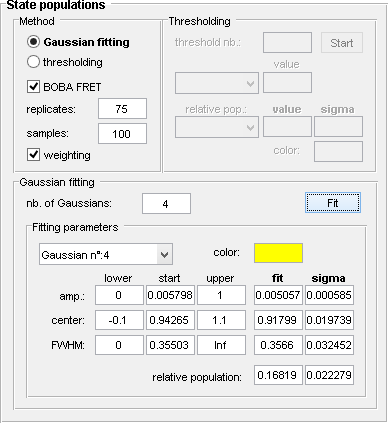
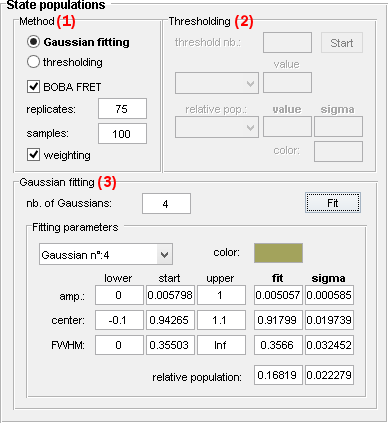
Import HA's panel GUI images

diff --git a/docs/histogram-analysis/panels/panel-state-populations.md b/docs/histogram-analysis/panels/panel-state-populations.md
@@ -22,22 +22,25 @@ nav_order: 4
 
 ## Method settings
 
-Population calculation settings.
+Defines the method to calculate state populations.
 
-* <u>Population calculation method</u>
-
-* <u>Data bootstrapping</u>
+<img src="../../assets/images/gui/HA-panel-state-populations-method.png" style="max-width: 156px;"/>
 
 
 ---
 
 ## Thresholding
 
+Defines settings to calculate state populations with the Thresholding method.
+
+<img src="../../assets/images/gui/HA-panel-state-populations-thresholding.png" style="max-width: 215px;"/>
+
 States are separated by fixed thresholds, histogram counts are summed up between thresholds and resulting populations are normalized.
 
-* Set `J-1` thresholds in edit fieldd **(1)** for a model containing *J* of states.
-* Select threshold with dropdown menu **(2)** and set the threshold value in edit field **(3)**.
-* Start calculations with button ![Start](../../assets/images/but-HA-start.png)
+* Set `J-1` thresholds in edit fieldd **(a)** for a model containing *J* of states.
+* Select threshold with dropdown menu **(b)** and set the threshold value in edit field **(c)**.
+* Start calculations with button 
+![Start](../../assets/images/gui/HA-but-start.png)
 * <u>Start thresholding</u>
 
 * <u>Calculation results</u>
@@ -46,6 +49,10 @@ States are separated by fixed thresholds, histogram counts are summed up between
 ---
 
 ## Gaussian fitting
+
+Defines settings to calculate state populations with the Gaussian fitting method.
+
+<img src="../../assets/images/gui/HA-panel-state-populations-gaussian-fitting.png" style="max-width: 365px;"/>
 
 Histogram is fitted with a mixture of Gaussians and 
 

diff --git a/docs/histogram-analysis/panels/area-visualization.md b/docs/histogram-analysis/panels/area-visualization.md
@@ -21,12 +21,27 @@ nav_order: 5
 ## Top axes
 
 ### Default
+{: .no_toc }
+
+<img src="../../assets/images/gui/HA-area-visualization-top-default.png" style="max-width:482px;">
+
 
 ### Inferred state configuration
+{: .no_toc }
+
+<img src="../../assets/images/gui/HA-area-visualization-top-gaussian.png" style="max-width:482px;">
+
 
 ### After Gaussian fitting
+{: .no_toc }
+
+<img src="../../assets/images/gui/HA-area-visualization-top-gaussian-boba.png" style="max-width:482px;">
+
 
 ### After thresholding
+{: .no_toc }
+
+<img src="../../assets/images/gui/HA-area-visualization-top-threshold.png" style="max-width:482px;">
 
 
 ---
@@ -34,8 +49,20 @@ nav_order: 5
 ## Bottom axes
 
 ### Default
+{: .no_toc }
+
+<img src="../../assets/images/gui/HA-area-visualization-bottom-default.png" style="max-width:482px;">
+
 
 ### After Gaussian fitting
+{: .no_toc }
 
+<img src="../../assets/images/gui/HA-area-visualization-bottom-gaussian-boba.png" style="max-width:482px;">
+
+
+### After thresholding
+{: .no_toc }
+
+<img src="../../assets/images/gui/HA-area-visualization-bottom-threshold.png" style="max-width:482px;">
 
 

diff --git a/docs/histogram-analysis/panels/panel-state-configuration.md b/docs/histogram-analysis/panels/panel-state-configuration.md
@@ -9,7 +9,7 @@ nav_order: 3
 # State configuration
 {: .no_toc }
 
-<a href="../../assets/images/gui/HA-panel-state-configuration.png"><img src="../../assets/images/gui/HA-panel-state-configuration.png" style="max-width: 200px;"/></a>
+<a href="../../assets/images/gui/HA-panel-state-configuration.png"><img src="../../assets/images/gui/HA-panel-state-configuration.png" style="max-width: 166px;"/></a>
 
 ## Panel components
 {: .no_toc .text-delta }
@@ -26,6 +26,10 @@ nav_order: 3
 ---
 
 ## Model penalty
+
+Use this interface to set the model overfitting penalty
+
+<img src="../../assets/images/gui/HA-panel-state-configuration-penalty.png" style="max-width: 160px;"/>
 
 The 
 [*BIC*](){: .math_var } is similar to a penalized likelihood and is expressed such as:
@@ -45,4 +49,8 @@ Here, the most sufficient model has the lowest
 
 ## Inferred models
 
+Use this interface to visualize the different inferred models
 
+<img src="../../assets/images/gui/HA-panel-state-configuration-models.png" style="max-width: 150px;"/>
+
+<img src="../../assets/images/gui/HA-panel-state-configuration-bic.png" style="max-width: 147px;"/>

diff --git a/docs/histogram-analysis/panels/panel-histogram-and-plot.md b/docs/histogram-analysis/panels/panel-histogram-and-plot.md
@@ -9,7 +9,7 @@ nav_order: 2
 # Histogram and plot
 {: .no_toc }
 
-<a href="../../assets/images/gui/HA-panel-plot.png"><img src="../../assets/images/gui/HA-panel-plot.png" style="max-width: 166px;"/></a>
+<a href="../../assets/images/gui/HA-panel-plot.png"><img src="../../assets/images/gui/HA-panel-plot.png" style="max-width: 200px;"/></a>
 
 ## Panel components
 {: .no_toc .text-delta }
@@ -26,6 +26,9 @@ nav_order: 2
 
 ## Histogram bounds
 
+Defines limits for the histogram x-axis
+
+<img src="../../assets/images/gui/HA-panel-plot-bounds.png" style="max-width: 171px;"/>
 
 ---
 
